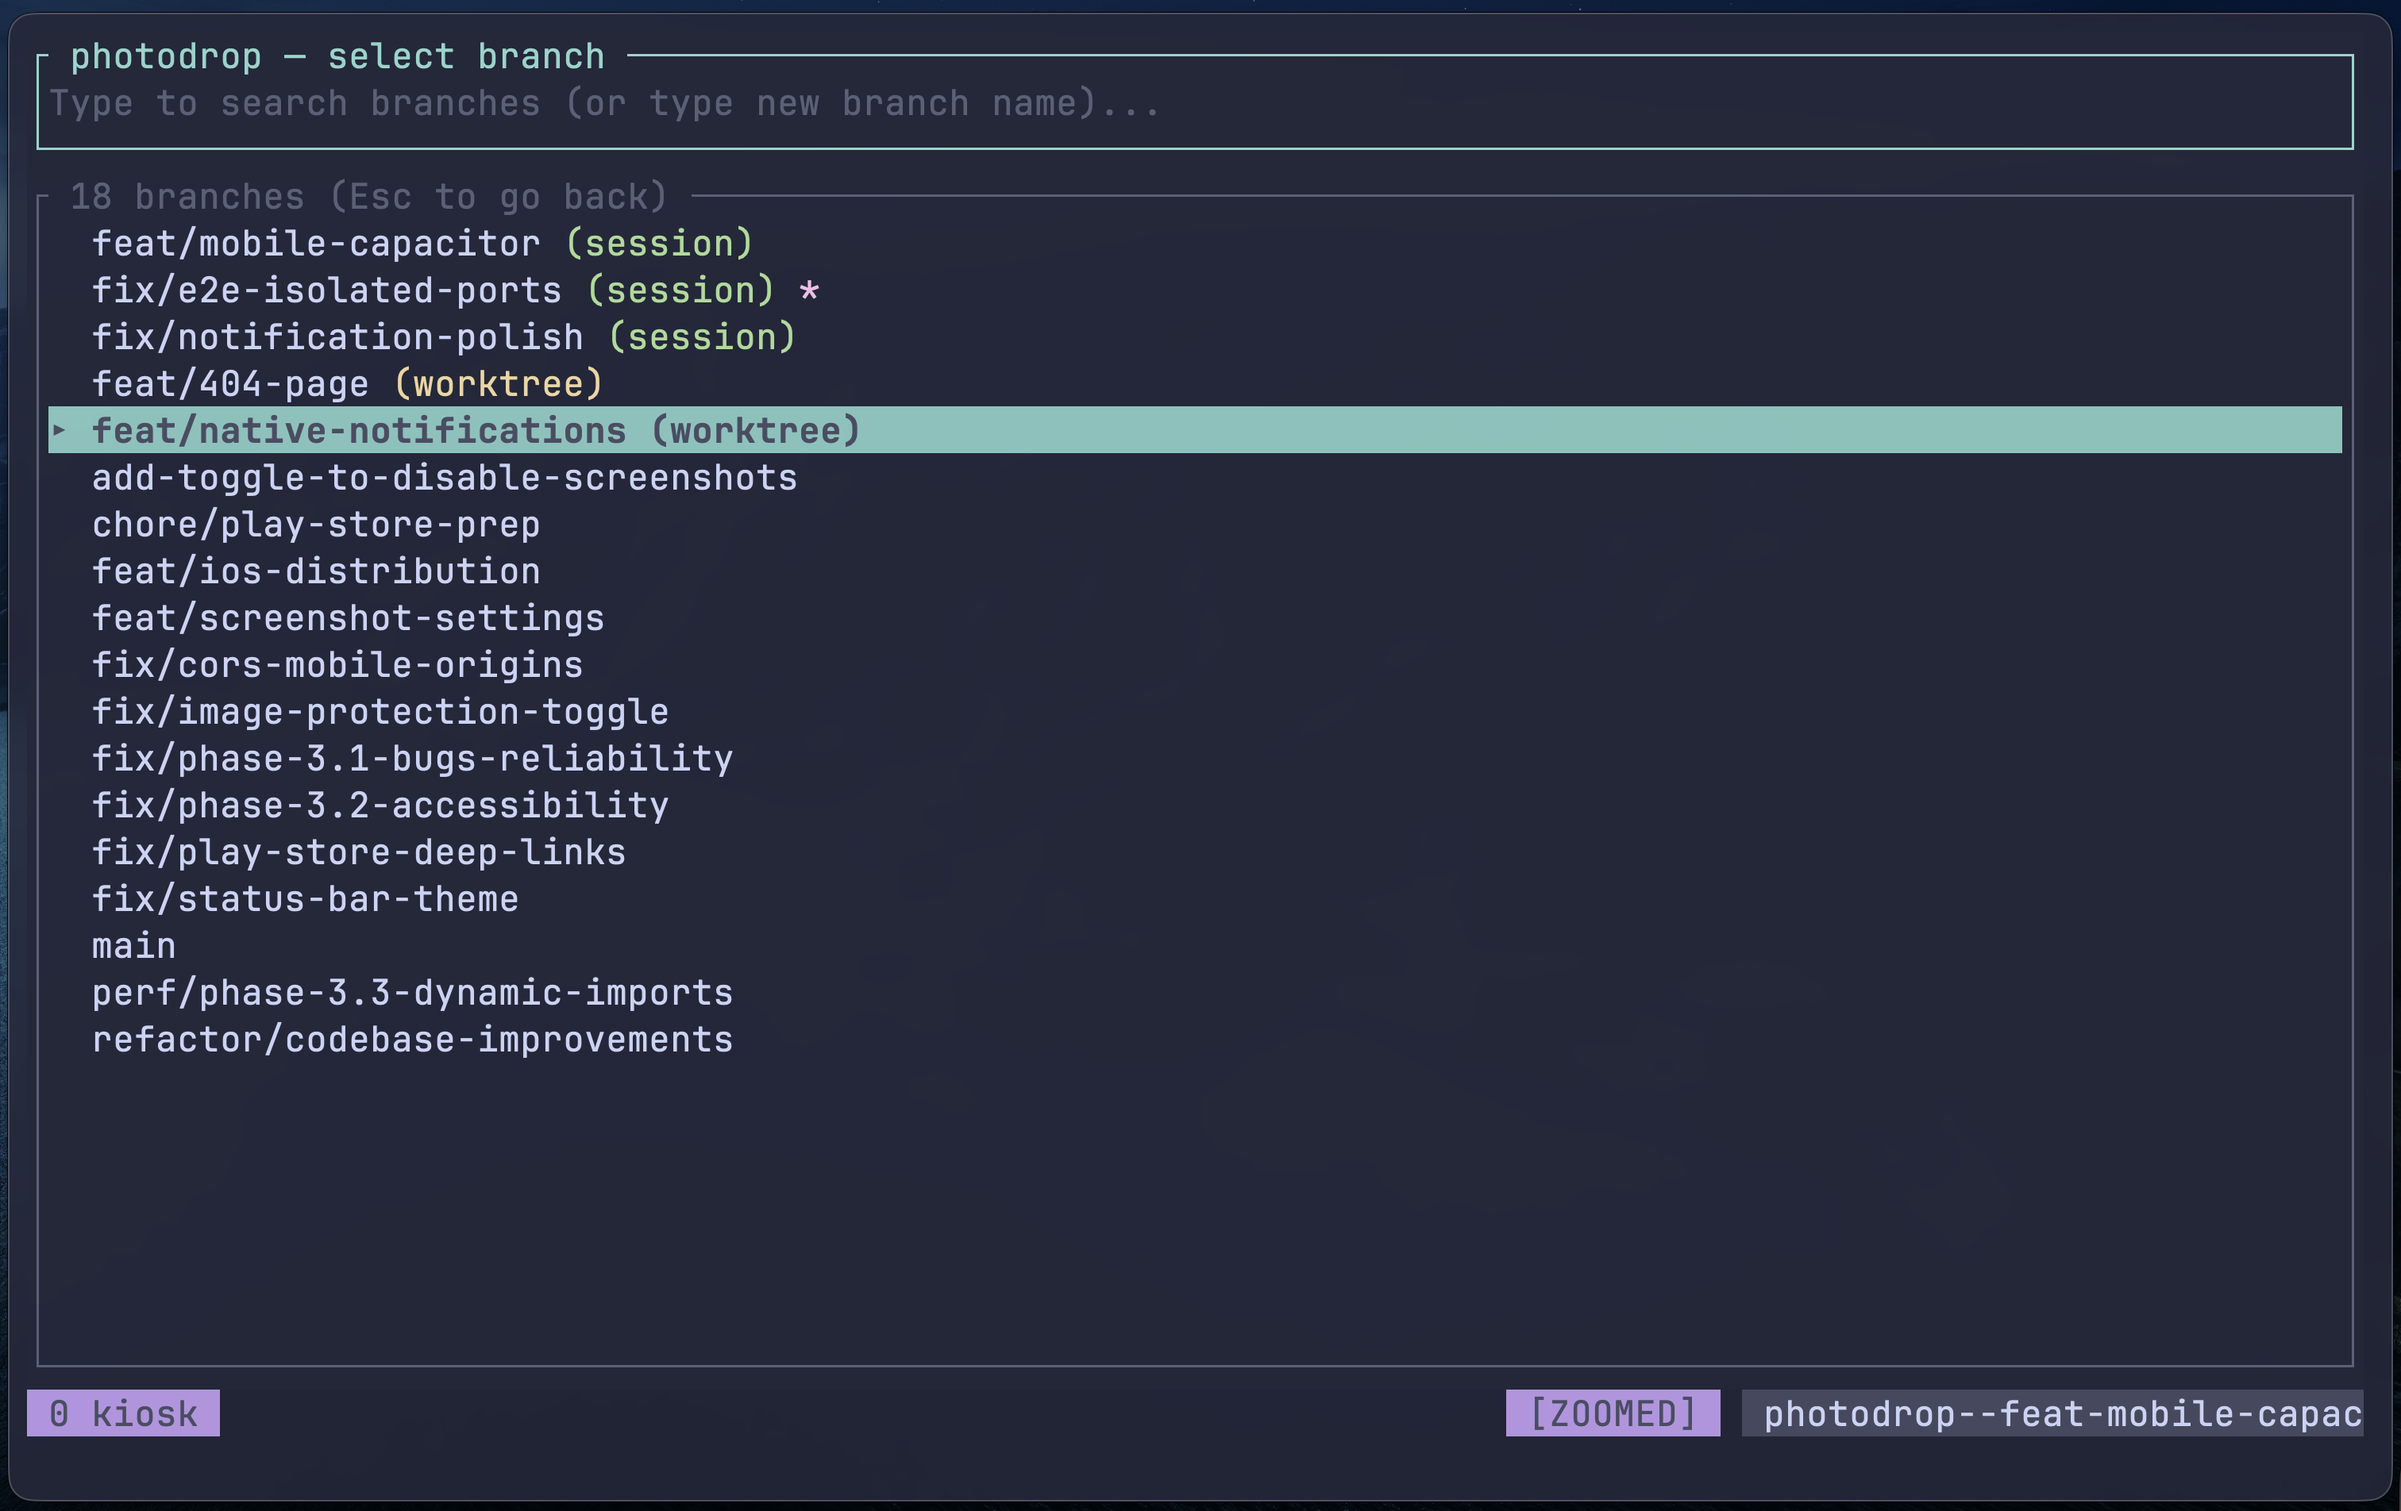
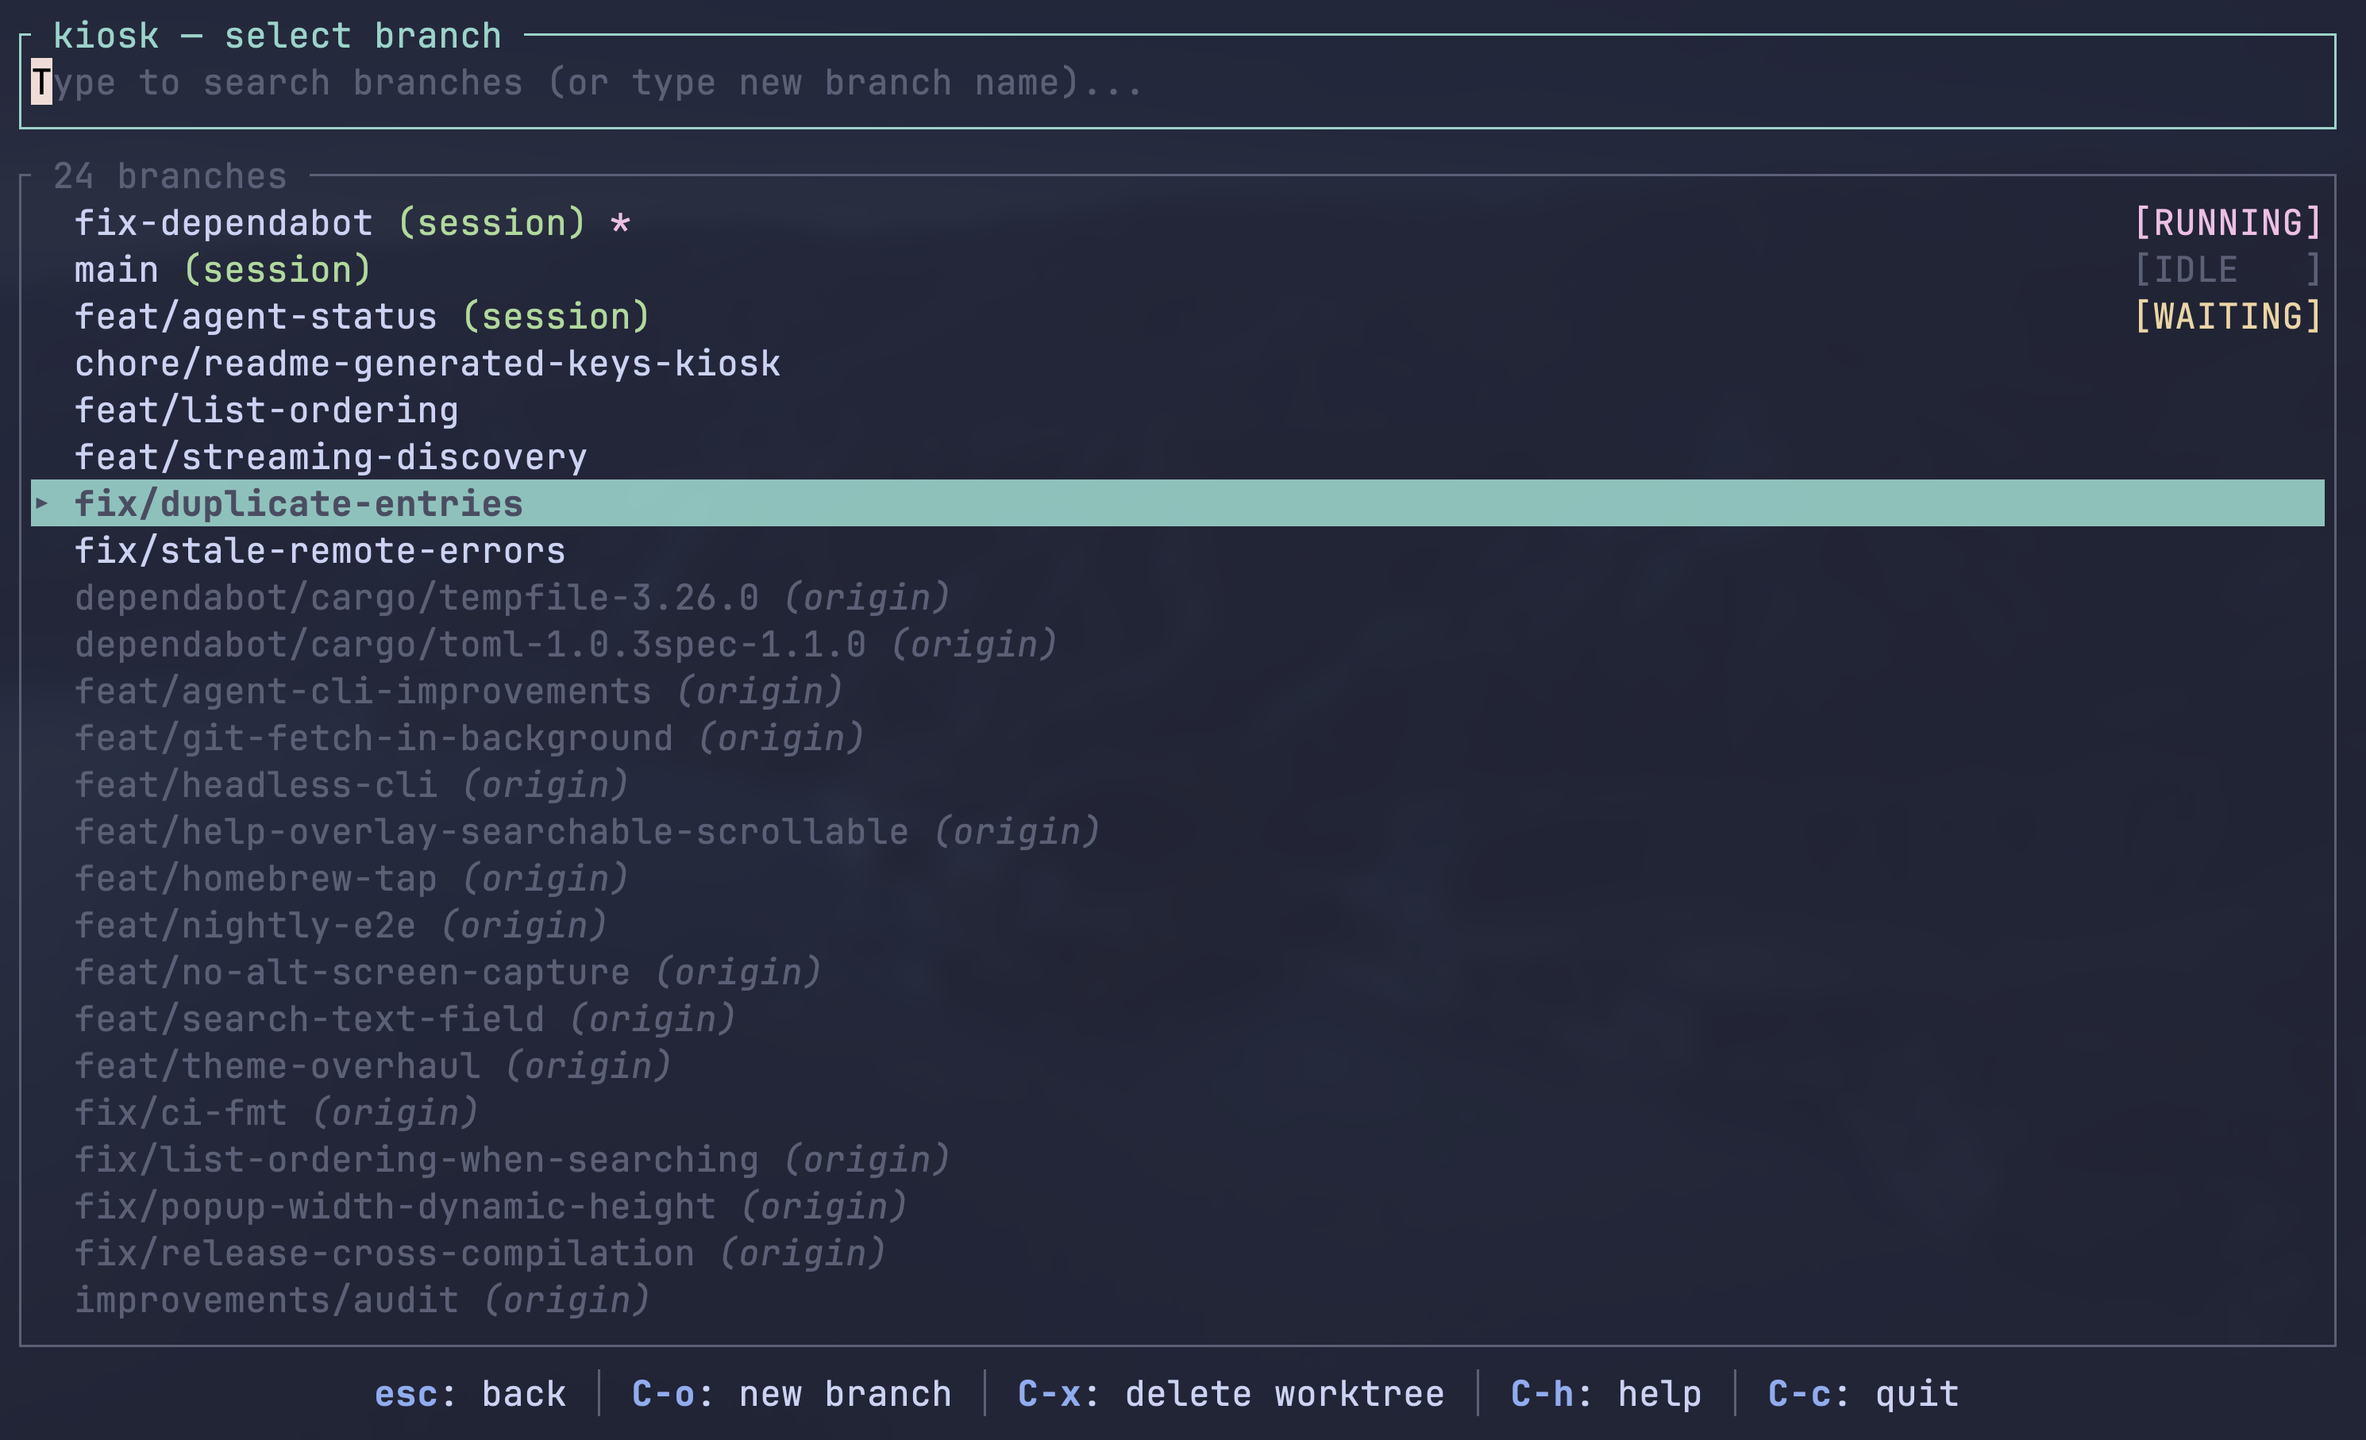
Update readme and preview with agent status

Changed region(s): [[0.0, 0.0, 1.0, 1.0]]

diff --git a/README.md b/README.md
@@ -1,6 +1,8 @@
 # kiosk
 
-Kiosk is a Git-aware tmux session manager. Search for the repo you want, and optionally select a branch or create a new one. If a session already exists, you jump straight in - if it doesn't, a new session is created, with a new worktree if needed.
+Kiosk is a Git-aware tmux session manager, which shows the status of your AI agents (waiting for permissions, idle or running).
+
+Search for the repo you want, and optionally select a branch or create a new one. If a session already exists, you jump straight in - if it doesn't, a new session is created, with a new worktree if needed.
 
 ![kiosk preview](media/preview.png)
 
